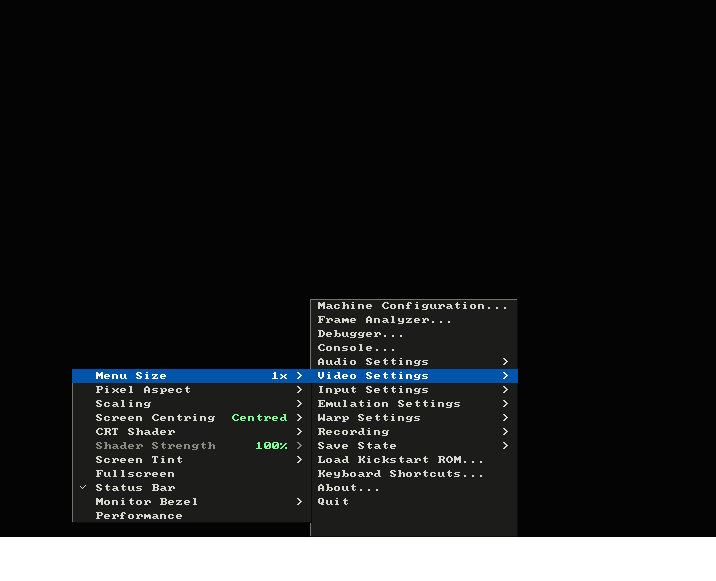
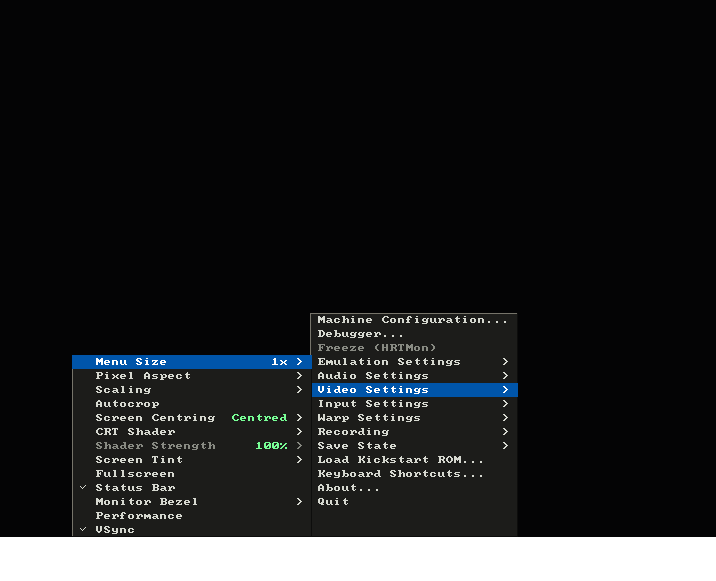
menu: the PCMCIA slot names its card in its own list, and two categories move
On an A600 or A1200 the main menu's PCMCIA Card row carried what was in
the slot as its value. A slot is empty most of the time, so nearly every
time the menu opened it said "Empty" -- and with a card in, the value was
the card's whole description, path and size included, which widened the
menu to fit it.

The row now carries no value. The list it opens starts with what is in
the slot, greyed and unpickable, in the shape of the MT-32's Control ROM
and PCM ROM lists: a dimmed None for an empty slot, the card's name for a
fitted one, then Insert CF Card Image... and Eject Card as before. A card
goes by the file name of the image behind it, as the MT-32's ROMs do; an
SRAM card with no file behind it by what it is. A level is as wide as its
widest row, so the name is cut to the width the two rows under it already
give the list, ending in the "~" the launcher's path rows use for a
clipped name.

Emulation Settings moves up to lead the settings categories, above Audio
Settings, and Warp Settings moves to close them, under Input Settings and
ahead of the ports a machine may or may not have. The player build
offers neither and is unchanged.

Three tests in menu.rs pin the list for an empty and a fitted slot, that
a long name leaves the list exactly as wide as an empty slot does, and
the order of the categories. The UI guide's menu sections follow the new
order and its PCMCIA entry is reworded; the menu picture is regenerated
[…]

Changed region(s): [[0.0922, 0.5886, 0.7374, 0.7126], [0.4302, 0.4957, 0.7067, 0.5577], [0.1229, 0.8985, 0.1844, 0.9294]]

diff --git a/src/video/menu.rs b/src/video/menu.rs
@@ -490,7 +490,9 @@ pub struct MenuState<'a> {
     pub keyboard_panel: bool,
     pub port_devices: [PortDevice; 2],
     /// Whether the machine has a PCMCIA slot (A600/A1200), and what is
-    /// in it: the category is only offered on a machine with the slot.
+    /// in it: the category is only offered on a machine with the slot. A
+    /// card goes by the name of the file behind it, as the MT-32's ROMs do;
+    /// an SRAM card with no file behind it by what it is.
     pub pcmcia_slot: bool,
     pub pcmcia_card: Option<String>,
     pub pixel_aspect: PixelAspect,
@@ -608,9 +610,11 @@ pub fn build(s: &MenuState) -> Vec<MenuRow> {
             MenuAction::FreezeCartridge,
         )
         .available(s.cartridge.is_some()),
+        MenuRow::submenu("Emulation Settings", emulation_rows(s)),
         MenuRow::submenu("Audio Settings", audio_rows(s)),
         MenuRow::submenu("Video Settings", video_rows(s)),
         MenuRow::submenu("Input Settings", input_rows(s)),
+        MenuRow::submenu("Warp Settings", warp_rows(s)),
     ];
 
     // A port with nothing on it has nothing to set, so it contributes no
@@ -629,17 +633,13 @@ pub fn build(s: &MenuState) -> Vec<MenuRow> {
 
     // Only a machine with the slot has anything to put in it. The floppy
     // and CD controls live on the status bar; the slot has no bar icon,
-    // so its insert/eject sit here.
+    // so its insert/eject sit here. No value on the row: a slot is empty
+    // most of the time, and the list it opens says what is in it.
     if s.pcmcia_slot {
-        rows.push(
-            MenuRow::submenu("PCMCIA Card", pcmcia_rows(s))
-                .with_value(s.pcmcia_card.clone().unwrap_or_else(|| "Empty".to_string())),
-        );
+        rows.push(MenuRow::submenu("PCMCIA Card", pcmcia_rows(s)));
     }
 
     rows.extend([
-        MenuRow::submenu("Emulation Settings", emulation_rows(s)),
-        MenuRow::submenu("Warp Settings", warp_rows(s)),
         MenuRow::submenu("Recording", recording_rows(s)),
         MenuRow::submenu("Save State", save_state_rows(s)),
         MenuRow::action("Load Kickstart ROM...", MenuAction::LoadRom),
@@ -1111,12 +1111,35 @@ fn parallel_rows(s: &MenuState) -> Vec<MenuRow> {
     ]
 }
 
+/// The slot, in the shape of the MT-32's firmware slots: what is in it (or
+/// a dimmed None), then the ways to change that.
 fn pcmcia_rows(s: &MenuState) -> Vec<MenuRow> {
-    vec![
-        MenuRow::action("Insert CF Card Image...", MenuAction::InsertPcmciaCard),
-        MenuRow::action("Eject Card", MenuAction::EjectPcmciaCard)
-            .available(s.pcmcia_card.is_some()),
-    ]
+    let insert = MenuRow::action("Insert CF Card Image...", MenuAction::InsertPcmciaCard);
+    let eject = MenuRow::action("Eject Card", MenuAction::EjectPcmciaCard)
+        .available(s.pcmcia_card.is_some());
+    // A level is as wide as its widest row, so an image with a long name
+    // would stretch the whole list. The name is cut to the width the two
+    // rows under it already give the level.
+    let room = insert
+        .label
+        .chars()
+        .count()
+        .max(eject.label.chars().count());
+    let card = match &s.pcmcia_card {
+        Some(name) => MenuRow::caption(&clip_label(name, room)),
+        None => MenuRow::action("None", MenuAction::InsertPcmciaCard).available(false),
+    };
+    vec![card, insert, eject]
+}
+
+/// `label` cut to `room` characters, the last of them a `~` when anything
+/// was lost -- the mark the launcher's path rows use for the same thing.
+fn clip_label(label: &str, room: usize) -> String {
+    if label.chars().count() <= room {
+        return label.to_string();
+    }
+    let kept: String = label.chars().take(room.saturating_sub(1)).collect();
+    format!("{kept}~")
 }
 
 fn emulation_rows(s: &MenuState) -> Vec<MenuRow> {
@@ -1923,5 +1946,111 @@ mod tests {
         let steps = strength.children().expect("steps");
         assert!(!find(steps, "Stronger").expect("stronger").enabled);
         assert!(find(steps, "Softer").expect("softer").enabled);
+    }
+
+    /// The slot says what is in it inside its own list, not on the main
+    /// menu, where it would read "empty" nearly every time the menu opened.
+    /// An empty slot is a dimmed None with nothing to eject; a fitted one
+    /// names its card, dimmed the same way, and can be ejected.
+    #[test]
+    fn the_pcmcia_list_names_the_card_and_the_main_menu_does_not() {
+        let none: [String; 0] = [];
+        let slots = empty_slots();
+        let mut st = state(&none, &none, &none, &none, &slots);
+        assert!(find(&build(&st), "PCMCIA Card").is_none());
+
+        st.pcmcia_slot = true;
+        let rows = build(&st);
+        let slot = find(&rows, "PCMCIA Card").expect("slot");
+        assert_eq!(slot.value, None);
+        let list = slot.children().expect("children");
+        let labels: Vec<&str> = list.iter().map(|r| r.label.as_str()).collect();
+        assert_eq!(labels, ["None", "Insert CF Card Image...", "Eject Card"]);
+        assert!(!list[0].enabled);
+        assert!(list[1].enabled);
+        assert!(!list[2].enabled);
+
+        st.pcmcia_card = Some("Workbench.hdf".to_string());
+        let rows = build(&st);
+        let slot = find(&rows, "PCMCIA Card").expect("slot");
+        assert_eq!(slot.value, None);
+        let list = slot.children().expect("children");
+        assert_eq!(list[0].label, "Workbench.hdf");
+        assert!(!list[0].enabled);
+        assert!(list[0].menu_action().is_none());
+        assert!(list[2].enabled);
+    }
+
+    /// A long image name is cut rather than stretching the list: the level
+    /// is exactly as wide with it as with the slot empty.
+    #[test]
+    fn a_long_card_name_does_not_widen_the_pcmcia_list() {
+        let none: [String; 0] = [];
+        let slots = empty_slots();
+        let mut st = state(&none, &none, &none, &none, &slots);
+        st.pcmcia_slot = true;
+        let width = |st: &MenuState| {
+            let rows = build(st);
+            let at = rows
+                .iter()
+                .position(|r| r.label == "PCMCIA Card")
+                .expect("slot");
+            let list = rows[at].children().expect("children");
+            let levels: Vec<&[MenuRow]> = vec![&rows, list];
+            layout::columns(&levels, &[Some(at)], 600, 800, 1)[1].w
+        };
+        let empty = width(&st);
+
+        let long = "A very long name for a CompactFlash card image indeed.hdf";
+        st.pcmcia_card = Some(long.to_string());
+        assert_eq!(width(&st), empty);
+
+        let rows = build(&st);
+        let list = find(&rows, "PCMCIA Card")
+            .and_then(|r| r.children())
+            .expect("children");
+        let room = "Insert CF Card Image...".chars().count();
+        assert_eq!(list[0].label.chars().count(), room);
+        assert!(list[0].label.ends_with('~'));
+        assert!(long.starts_with(list[0].label.trim_end_matches('~')));
+
+        // A name that fits is left alone, to the character.
+        assert_eq!(clip_label("Workbench.hdf", room), "Workbench.hdf");
+        assert_eq!(clip_label(&"x".repeat(room), room), "x".repeat(room));
+    }
+
+    /// Emulation Settings leads the settings categories and Warp Settings
+    /// closes them, ahead of the ports a machine may or may not have.
+    #[test]
+    fn the_settings_categories_keep_their_order() {
+        let slots = empty_slots();
+        let devices = ["Interface".to_string()];
+        let none: [String; 0] = [];
+        let mut st = state(&none, &devices, &devices, &devices, &slots);
+        st.pcmcia_slot = true;
+        let rows = build(&st);
+        let order: Vec<&str> = rows.iter().map(|r| r.label.as_str()).collect();
+        let at = |label: &str| {
+            order
+                .iter()
+                .position(|l| *l == label)
+                .unwrap_or_else(|| panic!("missing {label}"))
+        };
+        let run = [
+            "Emulation Settings",
+            "Audio Settings",
+            "Video Settings",
+            "Input Settings",
+            "Warp Settings",
+        ];
+        let first = at(run[0]);
+        assert_eq!(order[first..first + run.len()], run);
+        for port in ["Serial Port", "Parallel Port", "PCMCIA Card"] {
+            assert!(
+                at(port) > at("Warp Settings"),
+                "{port} before Warp Settings"
+            );
+            assert!(at(port) < at("Recording"), "{port} after Recording");
+        }
     }
 }

diff --git a/src/video/window/app_menus.rs b/src/video/window/app_menus.rs
@@ -134,11 +134,10 @@ impl App {
                 self.emu.bus().input.device(1),
             ],
             pcmcia_slot: self.emu.bus().pcmcia_slot_present(),
-            pcmcia_card: self
-                .emu
-                .bus()
-                .pcmcia_card()
-                .map(crate::pcmcia::PcmciaCard::describe),
+            pcmcia_card: self.emu.bus().pcmcia_card().map(|card| {
+                card.path()
+                    .map_or_else(|| card.describe(), display_file_name)
+            }),
             pixel_aspect: crate::video::pixel_aspect(),
             scaling: crate::video::display_scaling(),
             autocrop: crate::video::autocrop(),

diff --git a/docs/guide/ui.md b/docs/guide/ui.md
@@ -377,6 +377,35 @@ the guest. Overlay panels remain modal: their keys and clicks stay in the UI.
   or the configuration screen's *Freezer cartridge* row); see
   [Configuration](configuration.md#freezer-cartridge).
 
+### Emulation Settings
+
+- **Floppy Speed**: the emulated drive speed -- 100% (real speed), 200%,
+  400%, 800%, or turbo (disk DMA transfers complete almost instantly).
+  Changes apply to the live machine immediately. The start-up value comes
+  from `[floppy] speed`; see [Configuration](configuration.md) for what each
+  level preserves and the compatibility trade-off.
+- **Rewind** (the hotkey is `Cmd+Z` / `Alt+Z`): records rewind history. While
+  it is on, the emulator keeps a ring of whole-machine snapshots and the
+  hotkey steps the machine back through them -- the whole machine, not just
+  the picture: CPU, chips, RAM and all. One press goes back one capture
+  interval (half a second of emulated time by default). Turning it off
+  releases the snapshots, which is where the memory goes; the budget and
+  interval are `[emulation] rewind_budget_mb` and `rewind_interval_frames`,
+  and `rewind = true` starts recording at launch (see
+  [Configuration](configuration.md)). It shares its substrate with the
+  debugger's reverse controls, so the same determinism caveats apply -- see
+  [](../debugger/reverse).
+- **Run Ahead**: input-latency reduction for play. Each display refresh
+  commits one frame, runs a few silent future frames, presents the last future
+  image, and rewinds to the committed boundary. Level **1 frame** is the best
+  starting point; higher levels need proportionally more host CPU (watch the
+  performance overlay) and skip more intermediate animation. When a live
+  device, writable medium, debugger, capture, or other host coupling makes
+  speculation unsafe, selecting a level keeps it configured but the OSD says
+  why it is inactive. The start-up value is
+  `[emulation] run_ahead_frames` or `--run-ahead`; the full compatibility list
+  is in [Configuration](configuration.md).
+
 ### Audio Settings
 
 - **Audio Output** (also `Cmd+Shift+A` / `Alt+Shift+A`): the system default,
@@ -523,64 +552,6 @@ the guest. Overlay panels remain modal: their keys and clicks stay in the UI.
 - **Input Mapping...**: edits which host keys drive the controller controls,
   for both keyboard mappings; see [](#input-mapping).
 
-### Serial Port and Parallel Port
-
-Shown only when something is on the port.
-
-- **MIDI In / MIDI Out** (serial port in MIDI mode): Paula's serial bridge
-  onto the host's MIDI sources and destinations; see the `[serial]` section
-  of [Configuration](configuration.md). **MT-32** is offered here too,
-  and with it playing, an **MT-32** submenu carries its front panel and
-  display style; see [The MT-32](mt32.md).
-- **Sampler Input / Sampler Gain** (parallel-port sampler attached): the
-  sampler's host capture device, and its input gain, which the *Increase* and
-  *Decrease* rows step (also `Cmd/Alt+Shift +/-`). Both change live. See the
-  `[parallel]` section of [Configuration](configuration.md).
-
-### PCMCIA Card
-
-Offered only on an A600 or A1200, whose Gayle carries the credit-card
-slot; the category row shows what is in the slot (or *Empty*).
-
-- **Insert CF Card Image...**: pick a hard-disk image (anything `[ide]`
-  accepts) and push it into the slot as a CompactFlash card, ejecting
-  whatever was there. Gayle latches the card-detect change, so a
-  `card.resource` client sees a real insertion.
-- **Eject Card**: pull the card (greyed with an empty slot). An SRAM
-  card's backing file is written back on the way out.
-
-See the `[pcmcia]` section of [Configuration](configuration.md) for
-boot-time cards, SRAM cards, real card readers, and the fast-RAM rule.
-
-### Emulation Settings
-
-- **Floppy Speed**: the emulated drive speed -- 100% (real speed), 200%,
-  400%, 800%, or turbo (disk DMA transfers complete almost instantly).
-  Changes apply to the live machine immediately. The start-up value comes
-  from `[floppy] speed`; see [Configuration](configuration.md) for what each
-  level preserves and the compatibility trade-off.
-- **Rewind** (the hotkey is `Cmd+Z` / `Alt+Z`): records rewind history. While
-  it is on, the emulator keeps a ring of whole-machine snapshots and the
-  hotkey steps the machine back through them -- the whole machine, not just
-  the picture: CPU, chips, RAM and all. One press goes back one capture
-  interval (half a second of emulated time by default). Turning it off
-  releases the snapshots, which is where the memory goes; the budget and
-  interval are `[emulation] rewind_budget_mb` and `rewind_interval_frames`,
-  and `rewind = true` starts recording at launch (see
-  [Configuration](configuration.md)). It shares its substrate with the
-  debugger's reverse controls, so the same determinism caveats apply -- see
-  [](../debugger/reverse).
-- **Run Ahead**: input-latency reduction for play. Each display refresh
-  commits one frame, runs a few silent future frames, presents the last future
-  image, and rewinds to the committed boundary. Level **1 frame** is the best
-  starting point; higher levels need proportionally more host CPU (watch the
-  performance overlay) and skip more intermediate animation. When a live
-  device, writable medium, debugger, capture, or other host coupling makes
-  speculation unsafe, selecting a level keeps it configured but the OSD says
-  why it is inactive. The start-up value is
-  `[emulation] run_ahead_frames` or `--run-ahead`; the full compatibility list
-  is in [Configuration](configuration.md).
-
 ### Warp Settings
 
 - **Warp Speed** (also `Cmd+W` / `Alt+W`): runs the emulator unpaced for
@@ -600,6 +571,36 @@ boot-time cards, SRAM cards, real card readers, and the fast-RAM rule.
   at vsync when enabled. With VSync off, presentation frequency depends on
   host throughput and compositor redraw scheduling. The default is set by
   `[emulation] warp_speed` (see [Configuration](configuration.md)).
+
+### Serial Port and Parallel Port
+
+Shown only when something is on the port.
+
+- **MIDI In / MIDI Out** (serial port in MIDI mode): Paula's serial bridge
+  onto the host's MIDI sources and destinations; see the `[serial]` section
+  of [Configuration](configuration.md). **MT-32** is offered here too,
+  and with it playing, an **MT-32** submenu carries its front panel and
+  display style; see [The MT-32](mt32.md).
+- **Sampler Input / Sampler Gain** (parallel-port sampler attached): the
+  sampler's host capture device, and its input gain, which the *Increase* and
+  *Decrease* rows step (also `Cmd/Alt+Shift +/-`). Both change live. See the
+  `[parallel]` section of [Configuration](configuration.md).
+
+### PCMCIA Card
+
+Offered only on an A600 or A1200, whose Gayle carries the credit-card
+slot. The list opens with what is in the slot, greyed: the card image's
+file name (cut short with a `~` if it is wider than the list), or *None*.
+
+- **Insert CF Card Image...**: pick a hard-disk image (anything `[ide]`
+  accepts) and push it into the slot as a CompactFlash card, ejecting
+  whatever was there. Gayle latches the card-detect change, so a
+  `card.resource` client sees a real insertion.
+- **Eject Card**: pull the card (greyed with an empty slot). An SRAM
+  card's backing file is written back on the way out.
+
+See the `[pcmcia]` section of [Configuration](configuration.md) for
+boot-time cards, SRAM cards, real card readers, and the fast-RAM rule.
 
 ### Recording
 
